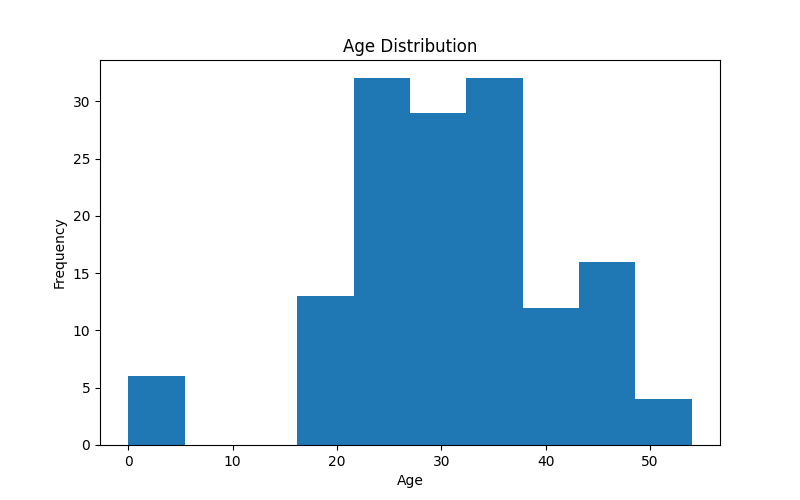
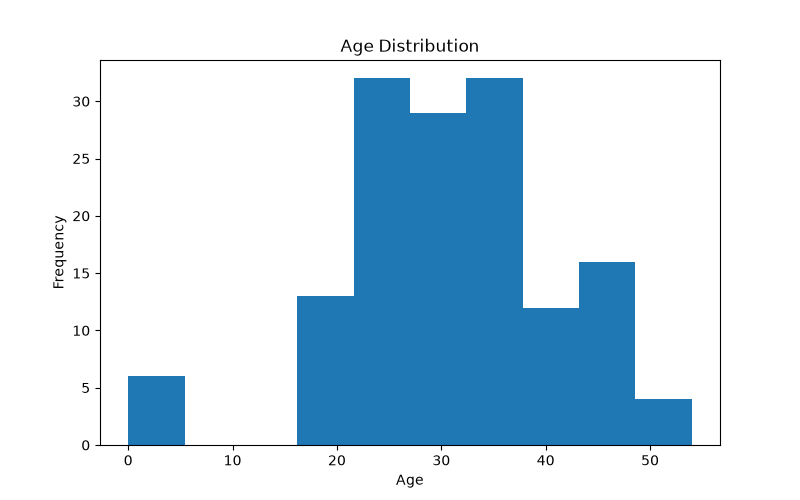
initial commit

diff --git a/README.md b/README.md
@@ -19,5 +19,5 @@ Bootstrap
 
 Screenshots:
 ![alt text](image.png) upload page
-![alt text](image-1.png) report page
+![alt text](imagec-1.png) report page
 ![alt text](image-2.png) charts